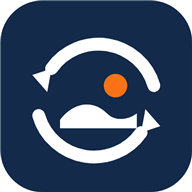
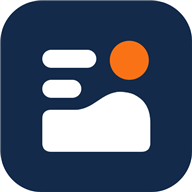
Marca oficial definitiva: A linha que vira colina
Simbolo escolhido pelo usuario no painel de refino (execucao 5):
duas linhas de formulario e a terceira erguida em colina sob o sol
laranja. Formas solidas em currentColor, sem mascaras. Aplicada em
Logo.tsx (simbolo/lockup/selo), favicon (icon.svg) e icones do PWA.

diff --git a/src/components/Logo.tsx b/src/components/Logo.tsx
@@ -1,20 +1,28 @@
-// Marca EmCampo — combinação escolhida: símbolo "Ciclo" (setas de sync
-// abraçando colina + sol) dentro do formato "Selo" (carimbo circular).
-// Sem hooks: funciona em server e client components. O traço principal usa
-// currentColor (text-white em header navy, text-marinho em fundo claro);
-// o sol é sempre laranja.
+// Marca EmCampo — "A linha que vira colina" (escolha final do usuário):
+// duas linhas de formulário mantêm o ritmo do laudo e a terceira se ergue em
+// colina sob o sol laranja. Formas sólidas em currentColor (navy em fundo
+// claro, branco em fundo navy); o sol é sempre laranja. Sem hooks de client.
+
+import { useId } from "react";
+
+function LinhaQueViraColina() {
+  return (
+    <>
+      <rect x="12" y="16" width="36" height="12" rx="6" fill="currentColor" />
+      <rect x="12" y="36" width="26" height="12" rx="6" fill="currentColor" />
+      <path
+        fill="currentColor"
+        d="M18 84 Q12 84 12 78 L12 62 Q12 56 18 56 L34 56 C46 56 52 44 64 44 C74 44 84 50 84 64 L84 78 Q84 84 78 84 Z"
+      />
+      <circle cx="70" cy="23" r="13" fill="#F97316" />
+    </>
+  );
+}
 
 export function LogoSimbolo({ className }: { className?: string }) {
   return (
-    <svg viewBox="0 0 90 90" className={className} aria-hidden>
-      <g fill="none" stroke="currentColor" strokeWidth="6" strokeLinecap="round">
-        <path d="M72 38 A 27 27 0 0 0 24 30" />
-        <path d="M18 52 A 27 27 0 0 0 66 60" />
-      </g>
-      <path d="M24 30 l-9 3 7 8z" fill="currentColor" />
-      <path d="M66 60 l9 -3 -7 -8z" fill="currentColor" />
-      <circle cx="54" cy="38" r="5.5" fill="#F97316" />
-      <path d="M28 54 C35 45 44 45 50 51 C54 55 60 54 64 51 L64 58 L28 58 Z" fill="currentColor" />
+    <svg viewBox="0 0 96 96" className={className} aria-hidden>
+      <LinhaQueViraColina />
     </svg>
   );
 }
@@ -22,18 +30,19 @@ export function LogoSimbolo({ className }: { className?: string }) {
 export function LogoLockup({ className }: { className?: string }) {
   return (
     <span className={`flex items-center gap-2 ${className ?? ""}`}>
-      <LogoSimbolo className="h-[1.6em] w-[1.6em] flex-none" />
+      <LogoSimbolo className="h-[1.5em] w-[1.5em] flex-none" />
       <span className="font-titulo font-extrabold tracking-tight">EmCampo</span>
     </span>
   );
 }
 
-/** Selo circular completo — para PDF, materiais e favicon grande. */
+/** Selo circular — para PDF, materiais e carimbo "gerado por EmCampo". */
 export function LogoSelo({ className }: { className?: string }) {
+  const id = useId();
   return (
     <svg viewBox="0 0 170 170" className={className} aria-hidden>
       <defs>
-        <path id="logo-selo-arco" d="M85 20a65 65 0 1 1-0.01 0" />
+        <path id={`${id}-arco`} d="M85 20a65 65 0 1 1-0.01 0" />
       </defs>
       <circle cx="85" cy="85" r="80" fill="none" stroke="currentColor" strokeWidth="4" />
       <circle cx="85" cy="85" r="56" fill="none" stroke="currentColor" strokeWidth="2" />
@@ -44,19 +53,12 @@ export function LogoSelo({ className }: { className?: string }) {
         letterSpacing="2.5"
         fontFamily="var(--font-archivo), sans-serif"
       >
-        <textPath href="#logo-selo-arco" startOffset="2%">
+        <textPath href={`#${id}-arco`} startOffset="2%">
           EMCAMPO • RELATÓRIOS DE CAMPO •
         </textPath>
       </text>
-      <g transform="translate(40 40)">
-        <g fill="none" stroke="currentColor" strokeWidth="6" strokeLinecap="round">
-          <path d="M72 38 A 27 27 0 0 0 24 30" />
-          <path d="M18 52 A 27 27 0 0 0 66 60" />
-        </g>
-        <path d="M24 30 l-9 3 7 8z" fill="currentColor" />
-        <path d="M66 60 l9 -3 -7 -8z" fill="currentColor" />
-        <circle cx="54" cy="38" r="5.5" fill="#F97316" />
-        <path d="M28 54 C35 45 44 45 50 51 C54 55 60 54 64 51 L64 58 L28 58 Z" fill="currentColor" />
+      <g transform="translate(52.6 52.6) scale(0.675)">
+        <LinhaQueViraColina />
       </g>
     </svg>
   );